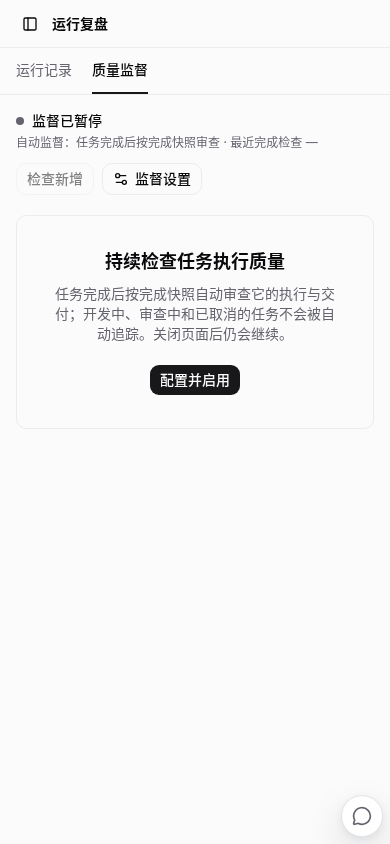
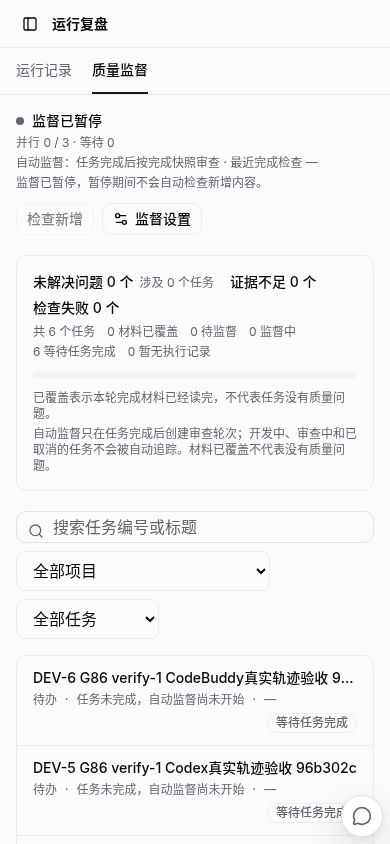
chore(agent): uncommitted changes from task

diff --git a/.gong86-current/setup.py b/.gong86-current/setup.py
@@ -1,0 +1,11 @@
+import importlib.util,json,pathlib,hashlib
+s=importlib.util.spec_from_file_location('a','scripts/prepare-supervision-acceptance.py');a=importlib.util.module_from_spec(s);s.loader.exec_module(a)
+m=json.load(open('/data/ida/multica/.run/deployments/goal-test-verify-1.json'));p=json.load(open(m['daemon_profile_path']))
+def api(method,path,body=None):return a.api(m,p,method,path,body)
+source=pathlib.Path('/data/ida/multica/.run/delivery-sources/01a171b7-60b1-788d-99f3-1d47e1c7f7ea/skills/delivery-supervision/SKILL.md');content=source.read_text();skills=api('GET','skills');existing=next((x for x in skills if x['name']=='delivery-supervision'),None)
+if existing:
+ skill=api('GET','skills/'+existing['id']);assert skill['content']==content
+else:skill=api('POST','skills',dict(name='delivery-supervision',description='Pinned candidate supervision acceptance',content=content))
+cfg=api('GET','supervision/')['config'];api('POST','agents/'+cfg['agent_id']+'/skills/add',{'skill_ids':[skill['id']]})
+cfg=api('PUT','supervision/',dict(enabled=True,investigation_enabled=True,interval_seconds=cfg['interval_seconds']))['config']
+print(json.dumps({'config':cfg,'skill_id':skill['id'],'sha256':hashlib.sha256(content.encode()).hexdigest()}))

diff --git a/.gong86-current/common.py b/.gong86-current/common.py
@@ -1,0 +1,4 @@
+import importlib.util,json
+s=importlib.util.spec_from_file_location('a','scripts/prepare-supervision-acceptance.py');a=importlib.util.module_from_spec(s);s.loader.exec_module(a)
+m=json.load(open('/data/ida/multica/.run/deployments/goal-test-verify-1.json'));p=json.load(open(m['daemon_profile_path']))
+def api(method,path,body=None):return a.api(m,p,method,path,body)

diff --git a/.gong86-current/REPORT.md b/.gong86-current/REPORT.md
@@ -1,0 +1,25 @@
+本轮 verify-1 实际功能验收未通过。
+
+交付：01a171b7-60b1-788d-99f3-1d47e1c7f7ea，revision 3。
+候选：96b302c78548dcf5bdba997fa1bc04972c3a1549-1792909468815044667。
+源码：96b302c78548dcf5bdba997fa1bc04972c3a1549。
+实际 release_id：96b302c78548dcf5bdba997fa1bc04972c3a1549-1792909417807488520，与候选映射一致。
+环境：http://9.134.129.162:33653；verify-1；种子 seed-20261025-agent-control-v4，SHA256 5fcd7c40b1e78cf96ff8290d25718d6a9e463abbcc15c20a25859ba5371b6090。
+
+已完成：
+
+1. 通过正式 recover-owner 接续过期归属，初始化脚本 preflight 通过；核对候选、部署、租约、种子和实际数据库身份。本机没有 psql，使用现有 postgres:17-alpine 镜像执行只读活动任务检查，未创建数据库或重置种子。
+2. 受控 0600 凭据按测试工作区注入；正式设置接口绑定测试账号自己的 Codex gpt-6.1-sol、low，开启 investigation 和监督；保留原始设置及服务配置。
+3. 初始化脚本错误引用 server/internal/service/builtin_skills/delivery-supervision/SKILL.md，实际固定候选为 skills/delivery-supervision/SKILL.md。未改动候选，通过正式接口从实际目录导入绑定。技能 SHA256 aa7e5011089ff451e065acd4a6b68ab17c2878264c67f052f129f5a1a7b56558。只证明绑定成功，不能证明监督模型实际加载成功。
+4. 测试任务 DEV-5 / 01a171bf-385d-742e-8693-22dcabaac3f9，真实执行 01a171bf-3863-72d1-b1d1-ee0d1263d932 完成，回答 17+25=42。Codex session 01a171bf-3a1a-74b1-ae1c-7b07ec3cf0c0。所属 Daemon 形成 local_snapshots=1 的材料 2fcf9aad-64e4-4a96-8930-16f30b576931，runtime=codex，AgentLens not_applicable，外部HTTP请求0；保留 run级用量和可见事件截断 gaps。
+5. 浏览器使用种子测试账号登录，访问监督页、刷新和390px视口；API有限边界检查：无认证400、无权限工作区404、不存在证据 deleted=true。这些不能替代完整分页、跨任务权限和恢复验收。
+
+确定失败：手动请求监督 DEV-5 后，批次 01a171bf-c256-7e4c-af89-ace7db645d80，执行 01a171bf-c25b-739a-a93e-e99565ee3a50 于14:29:15进入 failed，原始错误 decode supervision input: invalid character 'C' after top-level value。固定候选 daemon.go:7256 给 prompt 追加 Current runtime paths 文本；7510 又将整个 prompt 当 JSON Unmarshal。真实监督模型调用前失败，未产生有效建议或覆盖结果；不能宣称实际加载技能、分页和效率判定通过。
+
+CodeBuddy 样本 DEV-6 / 01a171bf-91e3-7148-ac4b-59d09115501d 的 Agent 创建请求显式选 CodeBuddy，但正式测试策略自动将保存结果改绑到 Codex gpt-6.1-sol，执行日志亦为 provider=codex。此样本不能计作 CodeBuddy 强关联、逐请求对账或混合runtime证据；本轮未改共享测试模型策略。
+
+尚未通过：真实 CodeBuddy 及混合runtime、监督模型和效率建议、材料连续分页及生命周期恢复矩阵、最终固定 int 组合验收。未用API成功或历史单测冒充业务通过。
+
+清理：正式停止测试监督后，初始化脚本 --cleanup 成功，恢复原服务配置和监督设置（enabled=false），移除短期服务凭据及本地临时来源文件。保留测试任务、技能和证据用于追溯；未删除业务数据，未合主分支或发布生产。
+
+证据文件：setup.json、runs.json、sample-subject.json、codex-evidence.json、codebuddy-agent.json、failure.log、browser-final.log；浏览器原始响应和截图位于相邻 .gong86-acceptance 目录。本报告随任务评论上传。

diff --git a/.gong86-current/reply.md b/.gong86-current/reply.md
@@ -1,0 +1,5 @@
+本轮实际验收未通过：测试配置已完成，真实 Codex 样本成功，但监督执行在模型调用前报错 `decode supervision input: invalid character 'C' after top-level value`。固定候选把运行路径文本追加到 JSON prompt 后又整体解析，导致监督失败。初始化脚本另有技能目录路径错误，已从同一候选实际路径经正式接口完成绑定，但未宣称模型加载成功。
+
+CodeBuddy 样本被现有测试模型策略自动改绑为 Codex，不能计作强关联或混合 runtime 验收通过。已恢复临时服务配置和监督原设置，清理短期凭据，保留失败样本与证据。
+
+已调用正式 `delivery accept` 提交真实结果；接口返回409，提示四项 verification 缺少通过证据，因此本次证据未被验收接口接受。没有将未执行或失败项改成通过，也未手工推进阶段。报告和原始证据附在本评论。未合主分支、未发布生产，本轮到此结束。
